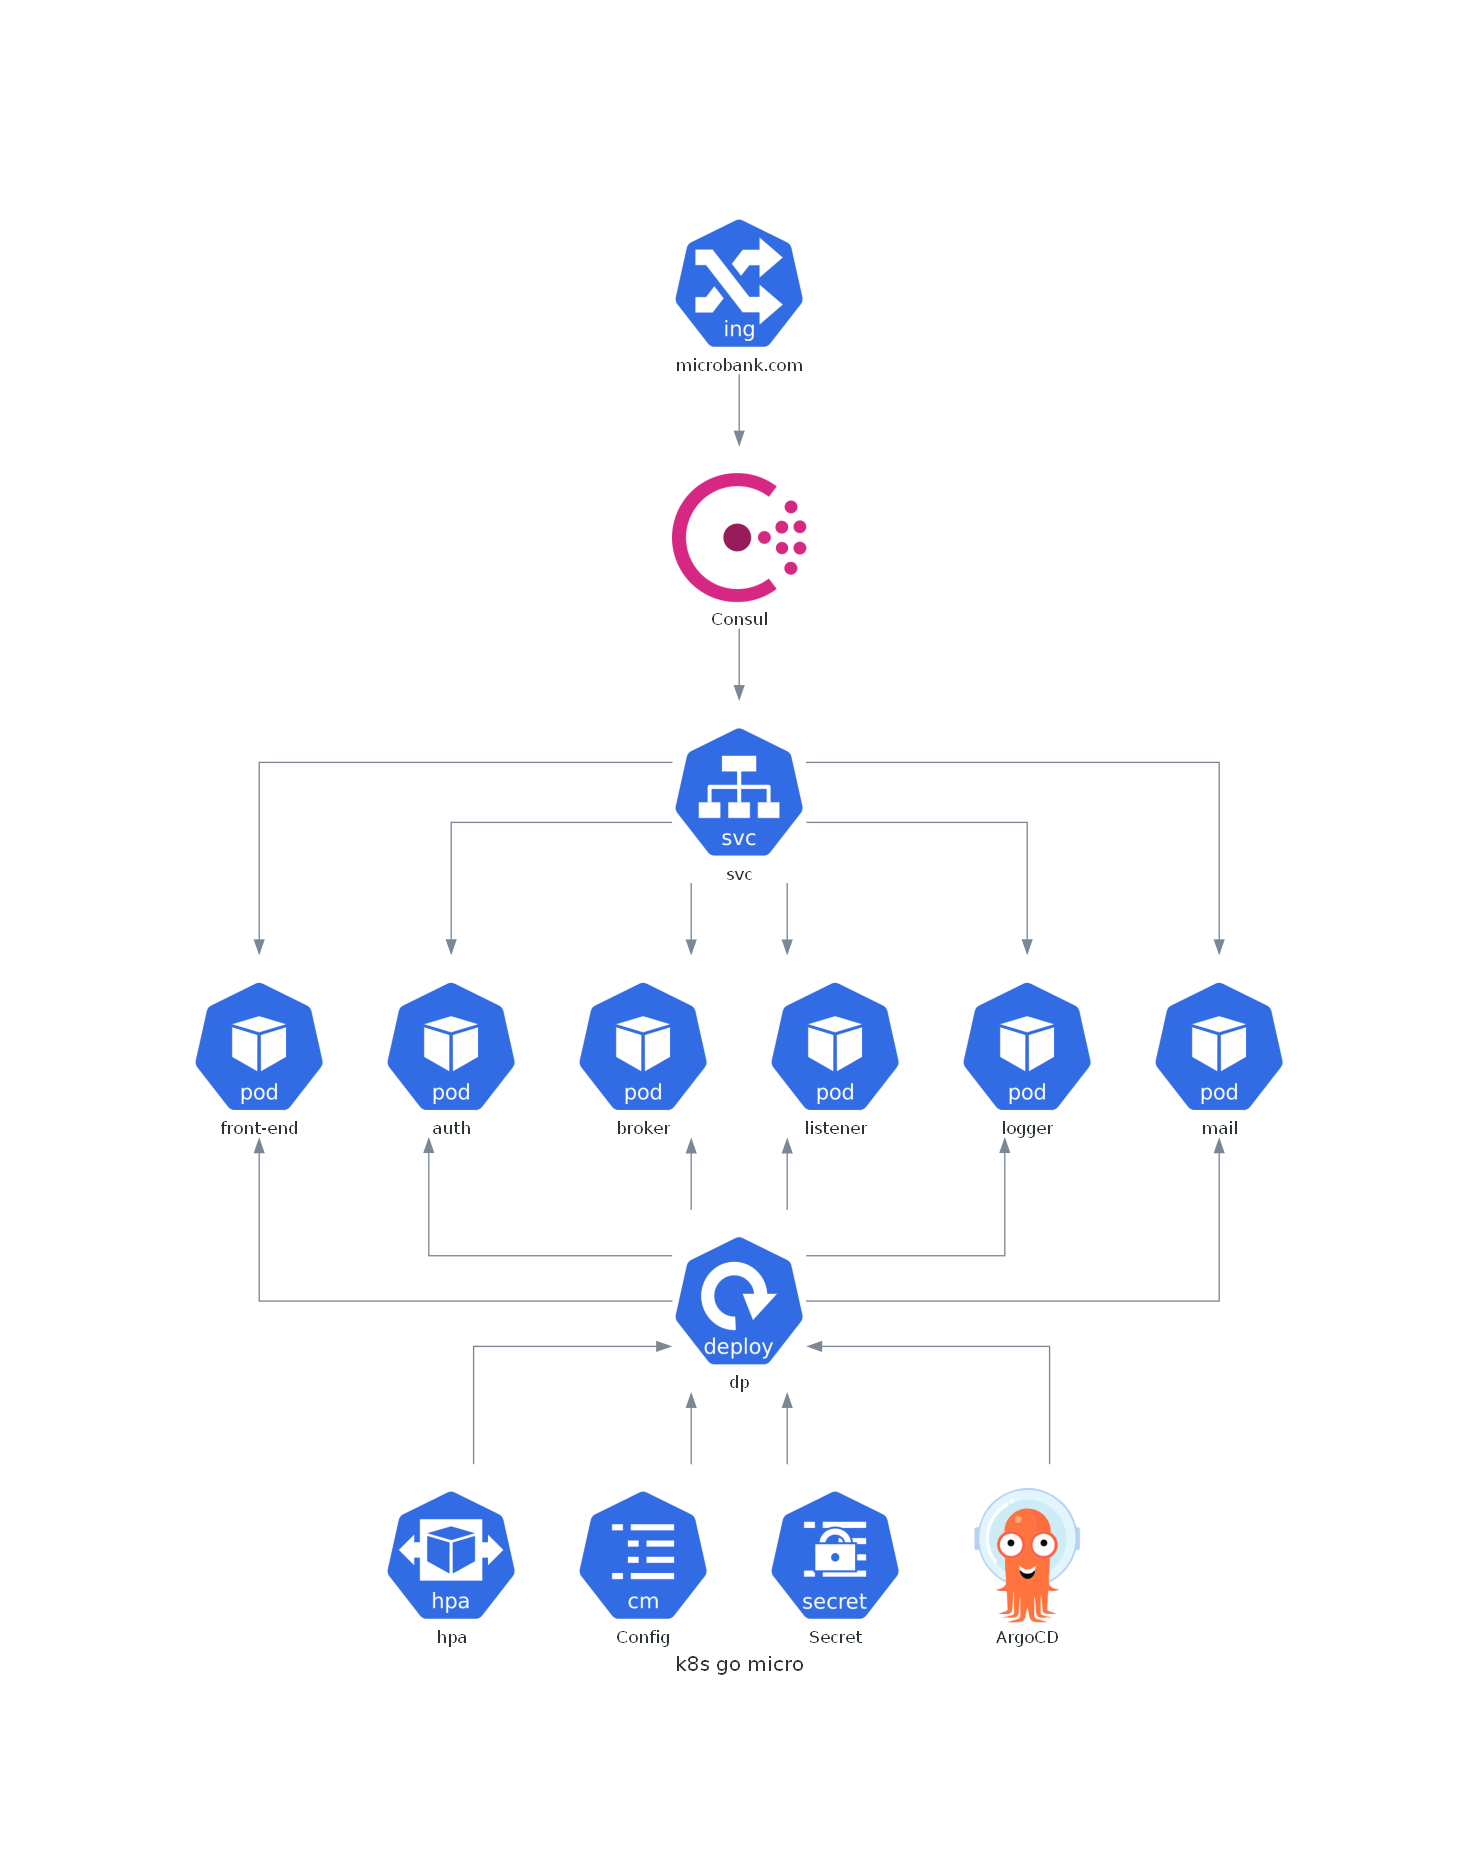
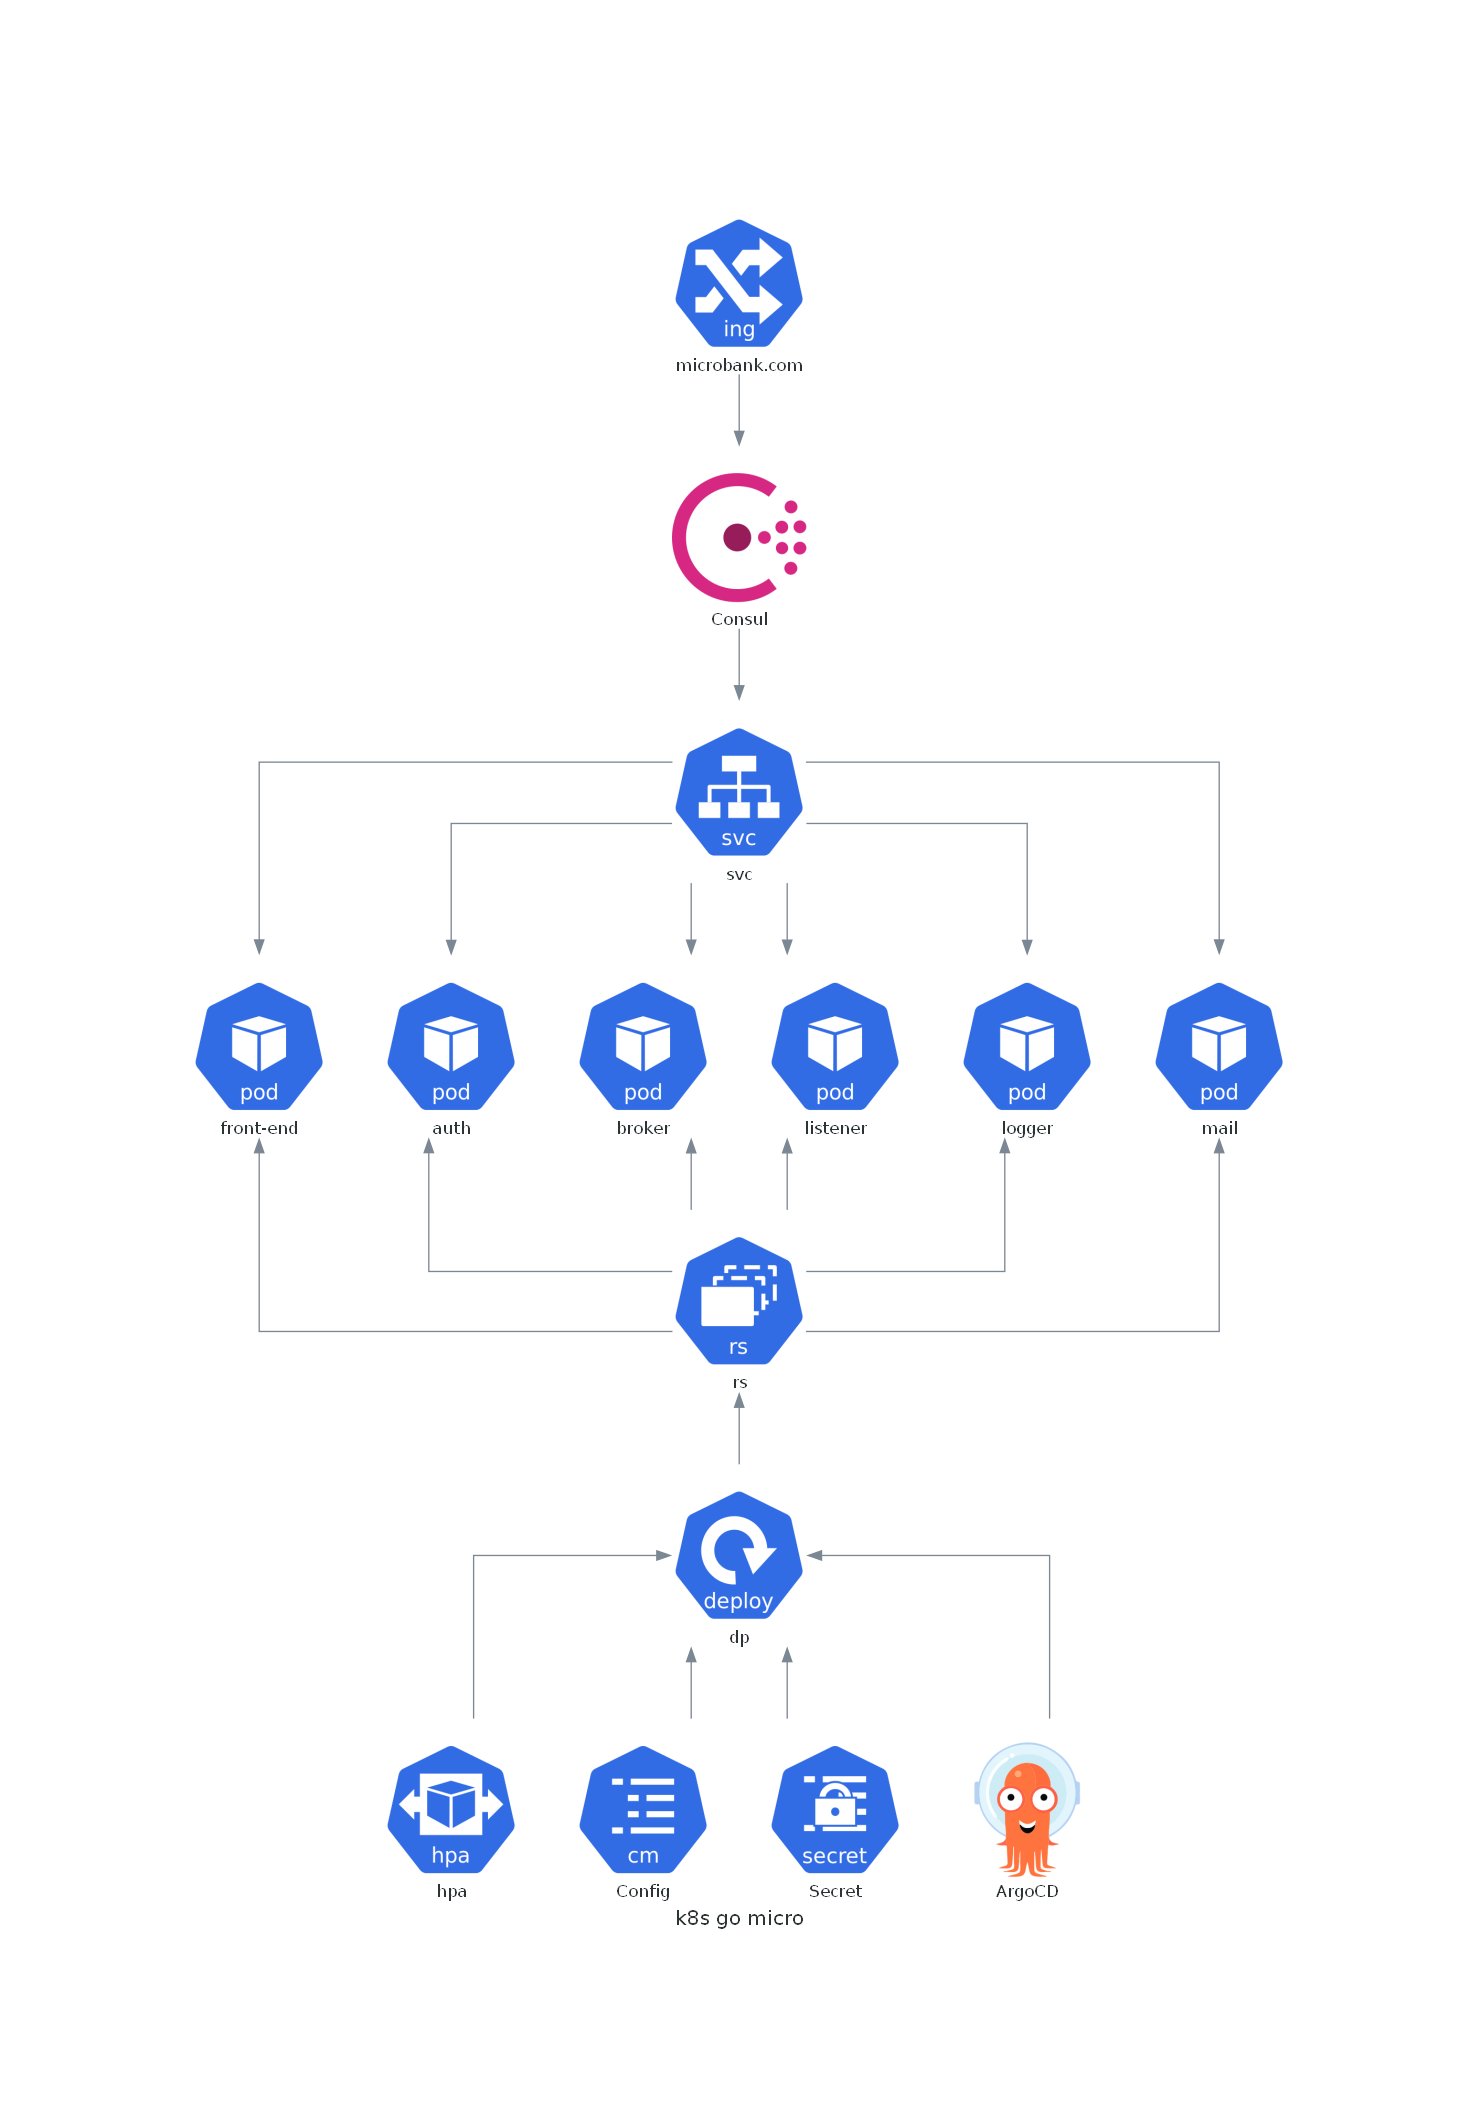
added readme

diff --git a/aws-simple-bank.py b/aws-simple-bank.py
@@ -1,7 +1,7 @@
 from diagrams import Cluster, Diagram, Edge
 from diagrams.aws.compute import EKS, EC2
 from diagrams.aws.database import ElastiCache, RDS
-from diagrams.aws.network import RouteTable, VPCRouter
+from diagrams.aws.network import RouteTable, VPCRouter, Nacl, NATGateway
 from diagrams.aws.network import Route53, VPC, InternetGateway
 from diagrams.aws.network import PrivateSubnet, PublicSubnet
 from diagrams.onprem.security import Vault
@@ -27,20 +27,46 @@ with Diagram("aws simple bank", show=False):
 
         igw = InternetGateway("Internet Gateway")
         router = VPCRouter("Router")
-        rt1 = RouteTable("Route Table")
+        rt_dev = RouteTable("Route Table")
+        rt_staging = RouteTable("Route Table")
+        rt_prod = RouteTable("Route Table")
         rt2 = RouteTable("Route Table")
         # lb = ELB("lb")
+        pvt_acl = Nacl("Pvt Sub \n Network ACL")
+        dev_acl = Nacl("Dev Network ACL")
+        staging_acl = Nacl("Staging Network ACL")
+        prod_acl = Nacl("Prod Network ACL")
 
-        with Cluster("(Network ACL) \n Public Subnet"):
-            pubsub = PublicSubnet("Public Subnet \n CIDR: 10.0.0.0/24 \n (IPv4)")
+        with Cluster("(Network ACL) \n Dev Public Subnet"):
+            pubsub = PublicSubnet("Dev Public Subnet \n CIDR: 10.0.0.0/24 \n (IPv4)")
+        
+            with Cluster("Services"):
+                dev_svc_group = [EKS("dev-simple-bank1")]
+
+        with Cluster("Staging Public Subnet"):
+            pubsub = PublicSubnet("Staging Public Subnet \n CIDR: 10.0.1.0/24 \n (IPv4)")
 
             with Cluster("Services"):
-                svc_group = [EKS("simple-bank1")]
+                staging_svc_group = [EKS("staging-simple-bank1")]
+        
+        with Cluster("Prod Public Subnet"):
+            pubsub = PublicSubnet("Prod Public Subnet \n CIDR: 10.0.2.0/24 \n (IPv4)")
+
+            with Cluster("Services"):
+                prod_svc_group = [EKS("prod-simple-bank1")]
 
         with Cluster("(Network ACL) \n Private Subnet"):
-            pvsub = PrivateSubnet("Private Subnet \n CIDR: 10.0.1.0/24 \n (IPv4)")
-            redis = ElastiCache("redis")
-            redis - ElastiCache("replica") << Edge(label="collect") << metrics
+            pvsub = PrivateSubnet("Private Subnet \n CIDR: 10.0.3.0/24 \n (IPv4)")
+            nat = NATGateway("NAT Gateway")
+
+
+            with Cluster("Prod Redis"):
+                redis = ElastiCache("prod_redis")
+                redis - ElastiCache("replica") << Edge(label="collect") << metrics
+
+            with Cluster("Dev/Staging DB"):
+                qa_db = RDS("dev/staging_postgres")
+                qa_redis = ElastiCache("qa_redis")
 
             with Cluster("Secret Store"):
                 ec2 = EC2("ec2")
@@ -48,28 +74,63 @@ with Diagram("aws simple bank", show=False):
                 ec2 - vault
                 ss = SecretsManager("secrets")
 
-            with Cluster("DB Cluster"):
-                db_primary = RDS("postgres")
+            with Cluster("Prod DB Cluster"):
+                db_primary = RDS("prod_postgres")
                 db_primary - [RDS("replica")] \
                     << Edge(label="collect") << metrics
 
+            
+
         dns >> igw \
-            >> Edge(color="darkgreen") \
+            >> Edge(color="black") \
             << router \
             >> Edge(color="darkgreen") \
-            << rt1 \
+            << rt_dev \
             >> Edge(color="darkgreen") \
-            << svc_group \
-            >> Edge(color="red") \
-            << db_primary
-        svc_group \
-            >> Edge(color="red") \
-            << redis
+            << dev_acl \
+            >> Edge(color="darkgreen") \
+            << dev_svc_group \
+            >> Edge(color="darkgreen") \
+            << qa_db
+        dev_svc_group \
+            >> Edge(color="darkgreen") \
+            << qa_redis
         router \
-            >> Edge(color="darkgreen") \
-            << rt2
-        rt2 >> Edge(color="darkgreen") << pvsub
+            >> Edge(color="darkorange") \
+            << rt2 >> Edge(color="darkorange") \
+            << pvt_acl \
+            >> Edge(color="darkorange") << pvsub
 
-        svc_group >> Edge(color="blue") \
+        dev_svc_group >> Edge(color="darkgreen") \
             << ss
-        svc_group >> Edge(color="darkorange") >> aggregator
+        
+        router \
+            >> Edge(color="red") \
+            << rt_staging \
+            >> Edge(color="red") \
+            << staging_acl \
+            >> Edge(color="red") \
+            << staging_svc_group \
+            >> Edge(color="red") \
+            << qa_db
+        staging_svc_group \
+            >> Edge(color="red") \
+            << qa_redis
+        staging_svc_group >> Edge(color="red") \
+            << ss
+
+        router \
+            >> Edge(color="blue") \
+            << rt_prod \
+            >> Edge(color="blue") \
+            << prod_acl \
+            >> Edge(color="blue") \
+            << prod_svc_group \
+            >> Edge(color="blue") \
+            << db_primary
+        prod_svc_group \
+            >> Edge(color="blue") \
+            << redis
+        prod_svc_group >> Edge(color="blue") \
+            << ss
+        prod_svc_group >> Edge(color="blue") >> aggregator

diff --git a/k8s-go-micro.py b/k8s-go-micro.py
@@ -11,6 +11,7 @@ with Diagram("k8s go micro", show=False, direction="TB"):
 	dp = Deployment("dp")
 	# istio = Istio("Istio")
 	consul = Consul("Consul")
+	rs = ReplicaSet("rs")
 	
 	net = Ingress("microbank.com") \
 			>> consul >> svc
@@ -21,7 +22,7 @@ with Diagram("k8s go micro", show=False, direction="TB"):
 			Pod("broker"),
 			Pod("listener"),
 			Pod("logger"),
-			Pod("mail")] << dp << HPA("hpa")
+			Pod("mail")] << rs << dp << HPA("hpa")
 	dp << ConfigMap("Config")
 	dp << Secret("Secret")
 	# dp << Flux("Flux")

diff --git a/k8s-simple-bank.py b/k8s-simple-bank.py
@@ -10,13 +10,14 @@ with Diagram("k8s micro bank", show=False):
 	svc = Service("svc")
 	dp = Deployment("dp")
 	consul = Consul("Consul")
+	rs = ReplicaSet("rs")
 
 	net = Ingress("api.microbank.com \n gapi.microbank.com") \
 			>> consul >> svc
 
 	net >> [Pod("bank-app1"),
 			Pod("bank-app2"),
-			Pod("bank-app3")] << dp << HPA("hpa")
+			Pod("bank-app3")] << rs << dp << HPA("hpa")
 	dp << ConfigMap("Config")
 	dp << Secret("Secret")
 	dp << ArgoCD("ArgoCD")

diff --git a/README.md b/README.md
@@ -1,0 +1,61 @@
+# Diagram as Code (DaC)
+
+This repo contains system design diagrams for various projects for [my GitHub account](https://github.com/bruce-mig), created using the diagram as code paradigm. Diagram as code is a way of drawing diagrams using code, which makes them easier to maintain, version control, and collaborate on. 
+
+## How it works
+
+The diagrams in this repo are created using the [Diagrams](https://diagrams.mingrammer.com/) Python library, which supports various providers, languages, and frameworks. 
+
+To generate a diagram, you need to write a Python script that defines the nodes and edges of your system, using the Diagrams API. Then, you can run the script and it will produce a PNG image of your diagram. 
+
+For example, here is a script that draws a simple web service architecture:
+
+```python
+from diagrams import Cluster, Diagram
+from diagrams.aws.compute import ECS
+from diagrams.aws.database import ElastiCache, RDS
+from diagrams.aws.network import ELB
+from diagrams.aws.network import Route53
+
+with Diagram("Clustered Web Services", show=False):
+    dns = Route53("dns")
+    lb = ELB("lb")
+
+    with Cluster("Services"):
+        svc_group = [ECS("web1"),
+                     ECS("web2"),
+                     ECS("web3")]
+
+    with Cluster("DB Cluster"):
+        db_primary = RDS("userdb")
+        db_primary - [RDS("userdb ro")]
+
+    memcached = ElastiCache("memcached")
+
+    dns >> lb >> svc_group
+    svc_group >> db_primary
+    svc_group >> memcached
+
+```
+
+And here is the output image:
+
+![Web Service](examples\clustered_web_services.png)
+
+## How to use this repo
+
+You can browse the existing diagrams in this repo, or create your own ones. To create a new diagram, follow these steps:
+
+- Install Python 3.6 or higher and the Diagrams library. For more information, see the [Diagrams installation guide](https://diagrams.mingrammer.com/docs/getting-started/installation).
+- Create a new Python file in the `diagrams` folder, with a descriptive name. For example, `invoicing_system.py`.
+- Write your diagram code using the Diagrams API. You can use the [Diagrams documentation](https://diagrams.mingrammer.com/docs/guides/diagram) and the [examples](https://diagrams.mingrammer.com/docs/nodes/aws) for reference.
+- Run your script to generate the image file. It will be saved in the same folder as your script, with the same name but with a `.png` extension. For example, `invoicing_system.png`.
+- Add your script and image file to the repo, and commit your changes. Optionally, you can also update the `README.md` file to include a description and a preview of your diagram.
+
+<!-- ## Contributing
+
+If you want to contribute to this repo, please follow the [contribution guidelines](docs/CONTRIBUTING.md).
+
+## License
+
+This repo is licensed under the [MIT License](LICENSE). -->
